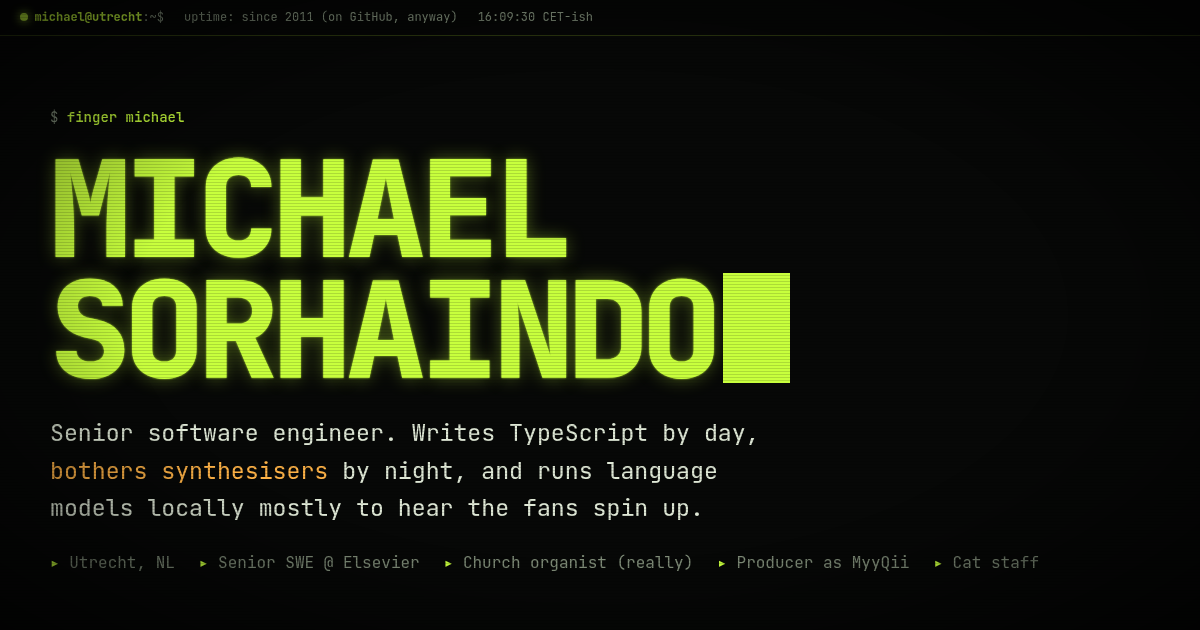
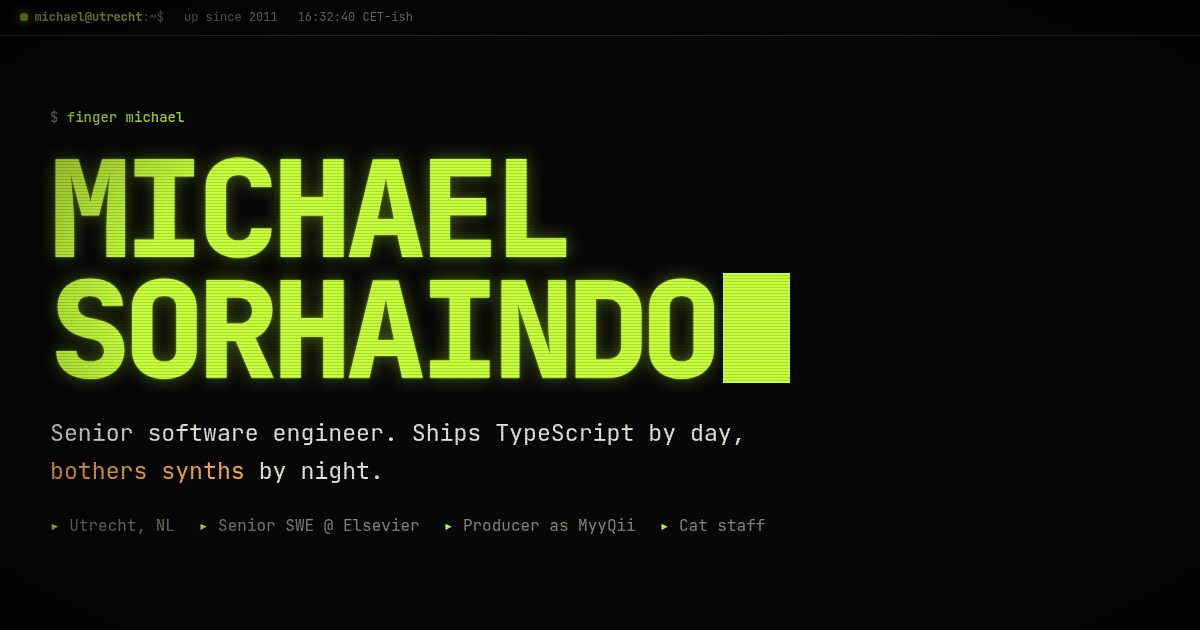
Homepage: briefer, programming-only copy; squash pre-code history; refresh og.png

diff --git a/index.html b/index.html
@@ -4,7 +4,7 @@
 <meta charset="utf-8" />
 <meta name="viewport" content="width=device-width, initial-scale=1" />
 <title>Michael Sorhaindo · software engineer & producer (MyyQii)</title>
-<meta name="description" content="Michael Sorhaindo: Senior Software Engineer at Elsevier, based in Utrecht. TypeScript by day, synthesisers by night as MyyQii. Projects, background and links." />
+<meta name="description" content="Michael Sorhaindo. Senior software engineer at Elsevier, Utrecht. Ships TypeScript by day, bothers synths by night as MyyQii." />
 <link rel="canonical" href="https://pmsorhaindo.com/" />
 <meta name="author" content="Michael Sorhaindo" />
 <link rel="icon" href="/favicon.svg" type="image/svg+xml" />
@@ -14,14 +14,14 @@
 <meta property="og:site_name" content="Michael Sorhaindo" />
 <meta property="og:url" content="https://pmsorhaindo.com/" />
 <meta property="og:title" content="Michael Sorhaindo · software engineer & producer (MyyQii)" />
-<meta property="og:description" content="Michael Sorhaindo: Senior Software Engineer at Elsevier, based in Utrecht. TypeScript by day, synthesisers by night as MyyQii. Projects, background and links." />
+<meta property="og:description" content="Michael Sorhaindo. Senior software engineer at Elsevier, Utrecht. Ships TypeScript by day, bothers synths by night as MyyQii." />
 <meta property="og:image" content="https://pmsorhaindo.com/og.png" />
 <meta property="og:image:width" content="1200" />
 <meta property="og:image:height" content="630" />
 <meta property="og:image:alt" content="MICHAEL SORHAINDO in acid-green terminal type on a black CRT-style background" />
 <meta name="twitter:card" content="summary_large_image" />
 <meta name="twitter:title" content="Michael Sorhaindo · software engineer & producer (MyyQii)" />
-<meta name="twitter:description" content="Michael Sorhaindo: Senior Software Engineer at Elsevier, based in Utrecht. TypeScript by day, synthesisers by night as MyyQii. Projects, background and links." />
+<meta name="twitter:description" content="Michael Sorhaindo. Senior software engineer at Elsevier, Utrecht. Ships TypeScript by day, bothers synths by night as MyyQii." />
 <meta name="twitter:image" content="https://pmsorhaindo.com/og.png" />
 <meta name="theme-color" content="#070807" />
 <link rel="preconnect" href="https://fonts.googleapis.com" />
@@ -79,7 +79,7 @@
   main { width: min(1100px, calc(100% - 2.5rem)); margin: 0 auto; padding: 2.5rem 0 4rem; }
 
   /* boot */
-  #boot { font-family: var(--crt); font-size: 22px; line-height: 1.15; color: var(--fg-dim); min-height: 13.5em; white-space: pre-wrap; }
+  #boot { font-family: var(--crt); font-size: 22px; line-height: 1.15; color: var(--fg-dim); min-height: 7em; white-space: pre-wrap; }
   #boot .ok { color: var(--fg); }
   #boot .warn { color: var(--amber); }
   .skip { font: 12px var(--mono); color: var(--muted); background: none; border: 1px solid var(--line); padding: .3rem .6rem; cursor: pointer; margin-top: .5rem; }
@@ -196,7 +196,7 @@
 
 <header class="bar">
   <span><span class="led" aria-hidden="true"></span><b>michael@utrecht</b>:~$</span>
-  <span class="hide-sm">uptime: since 2011 (on GitHub, anyway)</span>
+  <span class="hide-sm">up since 2011</span>
   <span class="hide-sm" id="clock" aria-hidden="true"></span>
   <nav aria-label="Sections">
     <a href="#whoami"><span>[1]</span> whoami</a>
@@ -213,12 +213,12 @@
   <section class="hero" aria-label="Intro" style="border-top:0;padding-top:1.5rem">
     <p class="cmd">$ <b>finger michael</b></p>
     <h1>MICHAEL<br>SORHAINDO<span class="cursor" aria-hidden="true"></span></h1>
-    <p class="sub">Senior software engineer. Writes TypeScript by day, <em>bothers synthesisers</em> by night, and runs language models locally mostly to hear the fans spin up.</p>
-    <div class="meta"><span>Utrecht, NL</span><span>Senior SWE @ Elsevier</span><span>Church organist (really)</span><span>Producer as MyyQii</span><span>Cat staff</span></div>
+    <p class="sub">Senior software engineer. Ships TypeScript by day, <em>bothers synths</em> by night.</p>
+    <div class="meta"><span>Utrecht, NL</span><span>Senior SWE @ Elsevier</span><span>Producer as MyyQii</span><span>Cat staff</span></div>
 
     <form class="prompt" id="term" autocomplete="off">
       <label for="cmd">guest@site:~$</label>
-      <input id="cmd" name="cmd" placeholder="type help (or just scroll, it's fine)" spellcheck="false" />
+      <input id="cmd" name="cmd" placeholder="type help. or scroll. your call." spellcheck="false" />
     </form>
     <div class="prompt-out" id="out" role="status" aria-live="polite"></div>
     <div class="chips" aria-label="Quick commands">
@@ -232,63 +232,58 @@
 
   <!-- ===== SWAP:ABOUT (career copy from LinkedIn) ===== -->
   <section id="whoami" aria-labelledby="h-about">
-    <p class="cmd">$ <b>whoami --verbose</b></p>
+    <p class="cmd">$ <b>whoami</b></p>
     <h2 id="h-about">whoami</h2>
     <div class="about">
       <div>
-        <p>I'm a <strong>Senior Software Engineer at Elsevier</strong> in Amsterdam, there since 2020 and senior since 2022. These days that mostly means SciVal, with a growing side order of AI and agentic smart summaries.</p>
-        <p>Before that I built React mobile apps for EA and Twitch at <strong>Ex Machina Group</strong>. Before <em>that</em>, four years of JavaScript at <strong>Brandwatch</strong> in Brighton: turning crowds of Twitter users into insights, helping build a pattern library, and running a reading group on NLP, RL and deep learning. It started at <strong>Ash Gaming</strong> in London, porting Flash games to HTML5 while also serving as office fire marshal. Nothing burned down on my watch.</p>
-        <p>BSc Computer Science (Games) from Brighton, First Class, with a dissertation on a functional ant colony simulation. Then an MSc in Advanced Computer Science at Sussex: ML, applied NLP, and the limits of computation (found them, they're real).</p>
-        <p>Away from the desk I mentor at <strong>codebar.io</strong>, play the organ in church (and the flute, now and then), and make techno as <strong>MyyQii</strong>. Same keyboard skills, different congregation.</p>
+        <p><strong>Senior Software Engineer at Elsevier.</strong> I build SciVal, lately the AI bits.</p>
+        <p>Before that: React mobile apps for EA and Twitch at <strong>Ex Machina</strong>, four years of JavaScript at <strong>Brandwatch</strong>, and Flash-to-HTML5 at <strong>Ash Gaming</strong>.</p>
+        <p>Off the clock: electronic music as <strong>MyyQii</strong>. Also church organ. Yes, really.</p>
       </div>
       <aside class="spec" aria-label="System spec">
         <span class="title">/proc/michael</span>
         <dl>
           <dt>location</dt><dd>Utrecht, NL</dd>
           <dt>day job</dt><dd>Senior SWE · Elsevier</dd>
-          <dt>stack</dt><dd>JavaScript/TS, Python, Java, C++</dd>
-          <dt>locale</dt><dd>en (native), de (limited), fr (un peu)</dd>
-          <dt>side procs</dt><dd>organ, flute, Eurorack</dd>
+          <dt>stack</dt><dd>TypeScript, Python, Java</dd>
           <dt>daemons</dt><dd>cats (root access)</dd>
-          <dt>status</dt><dd style="color:var(--fg)">online, over-caffeinated</dd>
+          <dt>status</dt><dd style="color:var(--fg)">online, caffeinated</dd>
         </dl>
       </aside>
     </div>
     <p class="cmd" style="margin-top:2.5rem">$ <b>git log --oneline career</b></p>
     <ol class="gitlog">
-      <li><span class="h">a2022</span> <b>HEAD</b> Senior Software Engineer @ Elsevier (SciVal)</li>
-      <li><span class="h">e2020</span> Software Engineer @ Elsevier</li>
-      <li><span class="h">x2018</span> Frontend Developer @ Ex Machina Group: React mobile apps for EA, Twitch</li>
-      <li><span class="h">b2014</span> JavaScript Developer @ Brandwatch: Enterprise, then Audiences team</li>
-      <li><span class="h">s2013</span> MSc Advanced Computer Science, University of Sussex</li>
-      <li><span class="h">u2012</span> BSc Computer Science (Games), University of Brighton, First Class</li>
-      <li><span class="h">g2010</span> Ash Gaming: localisation dev → mobile dev (Flash → HTML5). Also: fire marshal</li>
-      <li><span class="h">q2010</span> QA on FuturLab's Coconut Dodge, pre-PSN launch</li>
-      <li><span class="h">0000</span> <i>initial commit: some retail jobs. squashed.</i></li>
+      <li><span class="h">a2022</span> <b>HEAD</b> Senior SWE @ Elsevier · SciVal, AI</li>
+      <li><span class="h">e2020</span> SWE @ Elsevier</li>
+      <li><span class="h">x2018</span> Frontend @ Ex Machina · React mobile for EA, Twitch</li>
+      <li><span class="h">b2014</span> JavaScript @ Brandwatch</li>
+      <li><span class="h">c2014</span> BSc CS, Brighton (First) · MSc, Sussex</li>
+      <li><span class="h">g2010</span> Ash Gaming · localisation dev → mobile/HTML5 dev</li>
+      <li><span class="h">deadbee</span> <i>squash! everything before the code (non-programming). force-pushed. no reflog. don't ask.</i></li>
     </ol>
     <blockquote class="quote">
-      <p>"Mikey is a talented, hardworking and enthusiastic developer who is always keen to learn new things."</p>
-      <cite>Daniel Triggs, my manager, 2015 · <span>// still keen. still learning. now with more synths.</span></cite>
+      <p>"Always keen to learn new things."</p>
+      <cite>Daniel Triggs, my manager, 2015 · <span>// still true</span></cite>
     </blockquote>
   </section>
   <!-- ===== /SWAP:ABOUT ===== -->
 
   <section id="projects" aria-labelledby="h-proj">
-    <p class="cmd">$ <b>ls -la ~/projects | sort --by=interesting</b></p>
+    <p class="cmd">$ <b>ls ~/projects --sort=interesting</b></p>
     <h2 id="h-proj">projects</h2>
     <table class="ls">
       <thead><tr><th>perm</th><th>name</th><th>what it does</th><th>lang</th><th style="text-align:right">★ / last push</th></tr></thead>
       <tbody>
-        <tr><td class="perm">drwxr-xr-x</td><td class="name"><a href="https://github.com/pmsorhaindo/reddit-mcp">reddit-mcp/</a></td><td class="desc">Read-only Reddit MCP connector: profile, history, subscriptions and feeds, running on a Cloudflare Worker with bearer passthrough.<small>No SDK, no session store. The Worker never holds your refresh token.</small></td><td class="lang">TypeScript</td><td class="num">★0 · 2026-08</td></tr>
-        <tr><td class="perm">drwxr-xr-x</td><td class="name"><a href="https://github.com/pmsorhaindo/myyqii-site">myyqii-site/</a></td><td class="desc">Minimal landing page for the artist brand MyyQii.<small>Dark, mobile-first, no build step. Like this page, minus the boot sequence.</small></td><td class="lang">JavaScript</td><td class="num">★0 · 2026-09</td></tr>
-        <tr><td class="perm">drwxr-xr-x</td><td class="name"><a href="https://github.com/pmsorhaindo/codex-session-viewer">codex-session-viewer/</a></td><td class="desc">Browser app for reading the OpenAI Codex session <code>.jsonl</code> files in <code>~/.codex/sessions</code>.<small>For when you want to know what the robot was thinking.</small></td><td class="lang">TypeScript</td><td class="num">★0 · 2025-08</td></tr>
-        <tr><td class="perm">drwxr-xr-x</td><td class="name"><a href="https://github.com/pmsorhaindo/pino-benchmark">pino-benchmark/</a></td><td class="desc">Stress-testing Node loggers, Pino vs Winston.<small>Logging: the only thing that slows down when you try to measure it.</small></td><td class="lang">JavaScript</td><td class="num">★0 · 2025-02</td></tr>
-        <tr><td class="perm">drwxr-xr-x</td><td class="name"><a href="https://github.com/pmsorhaindo/toisu">toisu/</a></td><td class="desc">An Express/Koa-inspired server micro-framework for Node.js, built for promise-based middleware.</td><td class="lang">JavaScript</td><td class="num">★0 · 2016</td></tr>
-        <tr><td class="perm">drwxr-xr-x</td><td class="name"><a href="https://github.com/pmsorhaindo/functional-parser">functional-parser/</a></td><td class="desc">JavaScript and Haskell implementations of a functional parser.</td><td class="lang">HTML</td><td class="num">★2 · 2017</td></tr>
-        <tr><td class="perm">-rwxr--r--</td><td class="name"><a href="https://github.com/pmsorhaindo/FruitMachine">FruitMachine/</a></td><td class="desc">A slot machine in HTML5 and JS.<small>Still the most-starred repo. Gambling sells.</small></td><td class="lang">JavaScript</td><td class="num">★4 · 2013</td></tr>
+        <tr><td class="perm">drwxr-xr-x</td><td class="name"><a href="https://github.com/pmsorhaindo/reddit-mcp">reddit-mcp/</a></td><td class="desc">Read-only Reddit MCP server on a Cloudflare Worker. Never holds your token.</td><td class="lang">TypeScript</td><td class="num">★0 · 2026-08</td></tr>
+        <tr><td class="perm">drwxr-xr-x</td><td class="name"><a href="https://github.com/pmsorhaindo/myyqii-site">myyqii-site/</a></td><td class="desc">Landing page for MyyQii. No build step, no regrets.</td><td class="lang">JavaScript</td><td class="num">★0 · 2026-09</td></tr>
+        <tr><td class="perm">drwxr-xr-x</td><td class="name"><a href="https://github.com/pmsorhaindo/codex-session-viewer">codex-session-viewer/</a></td><td class="desc">Reads Codex session logs. See what the robot was thinking.</td><td class="lang">TypeScript</td><td class="num">★0 · 2025-08</td></tr>
+        <tr><td class="perm">drwxr-xr-x</td><td class="name"><a href="https://github.com/pmsorhaindo/pino-benchmark">pino-benchmark/</a></td><td class="desc">Pino vs Winston. Loggers, fighting.</td><td class="lang">JavaScript</td><td class="num">★0 · 2025-02</td></tr>
+        <tr><td class="perm">drwxr-xr-x</td><td class="name"><a href="https://github.com/pmsorhaindo/toisu">toisu/</a></td><td class="desc">Koa-ish micro-framework for promise middleware.</td><td class="lang">JavaScript</td><td class="num">★0 · 2016</td></tr>
+        <tr><td class="perm">drwxr-xr-x</td><td class="name"><a href="https://github.com/pmsorhaindo/functional-parser">functional-parser/</a></td><td class="desc">One parser, two languages: JavaScript and Haskell.</td><td class="lang">HTML</td><td class="num">★2 · 2017</td></tr>
+        <tr><td class="perm">-rwxr--r--</td><td class="name"><a href="https://github.com/pmsorhaindo/FruitMachine">FruitMachine/</a></td><td class="desc">HTML5 slot machine. Most-starred repo. Gambling sells.</td><td class="lang">JavaScript</td><td class="num">★4 · 2013</td></tr>
       </tbody>
     </table>
-    <p class="note">› 94 public repos total. <a href="https://github.com/pmsorhaindo?tab=repositories">ls -R github.com/pmsorhaindo</a></p>
+    <p class="note">› 94 public repos. <a href="https://github.com/pmsorhaindo?tab=repositories">ls -R github.com/pmsorhaindo</a></p>
   </section>
 
   <section id="myyqii" aria-labelledby="h-myyqii">
@@ -298,10 +293,10 @@
       <span class="tag">COMING SOON</span>
       <p class="logo" aria-label="MyyQii"><span>MyyQii</span></p>
       <div class="wave" aria-hidden="true" id="wave"></div>
-      <p>Electronic music from Utrecht. Patched, sequenced and occasionally rescued in post.</p>
+      <p>Electronic music. Patched, sequenced, occasionally rescued.</p>
       <p class="rig">rig: <b>Ableton</b> · <b>Eurorack modular</b> · <b>Hydrasynth</b> · <b>Elektron Octatrack</b></p>
       <div class="btns">
-        <a class="btn" href="https://soundcloud.com/myyqii" target="_blank" rel="noopener noreferrer">▶ listen on SoundCloud</a>
+        <a class="btn" href="https://soundcloud.com/myyqii" target="_blank" rel="noopener noreferrer">▶ listen</a>
         <a class="btn ghost" href="https://myyqii.com" target="_blank" rel="noopener noreferrer">myyqii.com</a>
       </div>
     </div>
@@ -316,7 +311,7 @@
       <li><a href="https://soundcloud.com/myyqii">soundcloud.com/myyqii</a></li>
       <li><a href="https://myyqii.com">myyqii.com</a></li>
     </ul>
-    <footer><span>© <span id="yr"></span> Michael Sorhaindo</span><span>exit 0 · no cookies were harmed</span></footer>
+    <footer><span>© <span id="yr"></span> Michael Sorhaindo</span><span>exit 0 · no cookies</span></footer>
   </section>
 </main>
 
@@ -332,15 +327,12 @@
 
   // boot sequence
   const lines = [
-    ['BIOS rev 2011.10.09 (first commit)', ''],
-    ['probing /dev/brain ............... ', 'ok', 'OK'],
-    ['loading coffee.ko ................ ', 'ok', 'OK'],
-    ['mounting /home/michael (utrecht) . ', 'ok', 'OK'],
-    ['starting typescript-lsp .......... ', 'ok', 'OK'],
-    ['spinning up local llm ............ ', 'warn', 'FANS AUDIBLE'],
-    ['detecting synths ................. ', 'warn', 'TOO MANY'],
-    ['cat.service ...................... ', 'warn', 'DEMANDING FOOD'],
-    ['all systems nominal. ish.', '']
+    ['BIOS rev 2011.10.09', ''],
+    ['mounting /home/michael ...... ', 'ok', 'OK'],
+    ['loading coffee.ko ........... ', 'ok', 'OK'],
+    ['local llm ................... ', 'warn', 'FANS AUDIBLE'],
+    ['synths ...................... ', 'warn', 'TOO MANY'],
+    ['ready. ish.', '']
   ];
   const boot = document.getElementById('boot');
   const skip = document.getElementById('skip');
@@ -362,20 +354,20 @@
   const out = document.getElementById('out');
   const go = (id, msg) => { out.textContent = msg; document.getElementById(id).scrollIntoView({ behavior: reduce ? 'auto' : 'smooth' }); };
   const cmds = {
-    help: () => out.textContent = 'commands: whoami · ls · play myyqii · contact · sudo hire-me · clear',
-    whoami: () => go('whoami', '→ jumping to whoami'),
-    ls: () => go('projects', '→ listing ~/projects'),
-    'play myyqii': () => go('myyqii', '→ signal incoming. headphones recommended.'),
-    contact: () => go('contact', '→ opening ~/.contact'),
-    sudo: () => out.textContent = 'guest is not in the sudoers file. This incident will be reported (to the cats).',
+    help: () => out.textContent = 'try: whoami · ls · play myyqii · contact · sudo hire-me · clear',
+    whoami: () => go('whoami', '→ senior swe. elsevier. utrecht.'),
+    ls: () => go('projects', '→ the good ones.'),
+    'play myyqii': () => go('myyqii', '→ headphones on.'),
+    contact: () => go('contact', '→ ~/.contact'),
+    sudo: () => out.textContent = 'no sudo for you. contact works though.',
     clear: () => out.textContent = '',
-    'rm -rf /': () => out.textContent = 'nice try.',
-    exit: () => out.textContent = 'there is no escape. only scrolling.'
+    'rm -rf /': () => out.textContent = 'no.',
+    exit: () => out.textContent = 'no exit. only scroll.'
   };
   const exec = (raw) => {
     const v = raw.trim().toLowerCase().replace(/^\.\//, '');
     const key = Object.keys(cmds).find(k => v === k || v.startsWith(k + ' ') || (k === 'ls' && v.startsWith('ls')) || (k === 'sudo' && v.startsWith('sudo')) || (k === 'play myyqii' && v.startsWith('play')));
-    key ? cmds[key]() : out.textContent = `command not found: ${raw}. try 'help'.`;
+    key ? cmds[key]() : out.textContent = `${raw}: not found. try help.`;
   };
   document.getElementById('term').addEventListener('submit', e => { e.preventDefault(); const i = e.target.cmd; exec(i.value); i.value = ''; });
   document.querySelectorAll('[data-cmd]').forEach(b => b.addEventListener('click', () => exec(b.dataset.cmd)));
